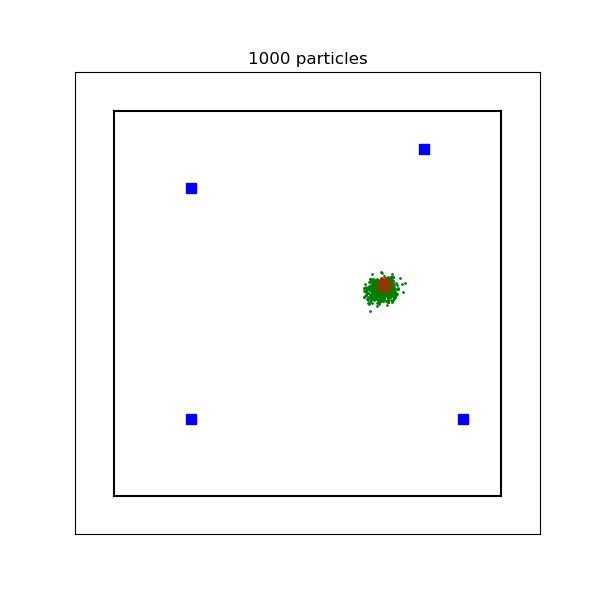
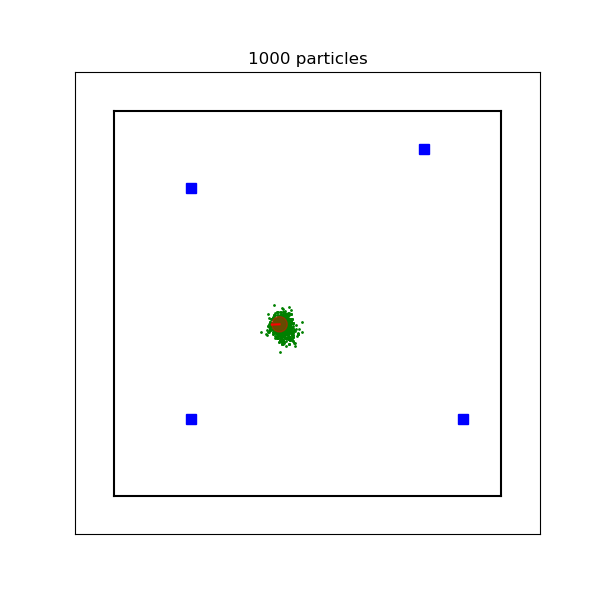
change number of iteration

Changed region(s): [[0.6, 0.45, 0.69, 0.51], [0.42, 0.51, 0.51, 0.6]]

diff --git a/AUV_localisation/Algorithm/Simulation/particle-filter-tutorial/demo_running_example.py b/AUV_localisation/Algorithm/Simulation/particle-filter-tutorial/demo_running_example.py
@@ -22,7 +22,7 @@ if __name__ == '__main__':
     world = World(10.0, 10.0, [[2.0, 2.0], [2.0, 8.0], [9.0, 2.0], [8, 9]])
 
     # Number of simulated time steps
-    n_time_steps = 30
+    n_time_steps = 300
 
     # Initialize visualization
     show_particle_pose = False  # only set to true for low #particles (very slow)
